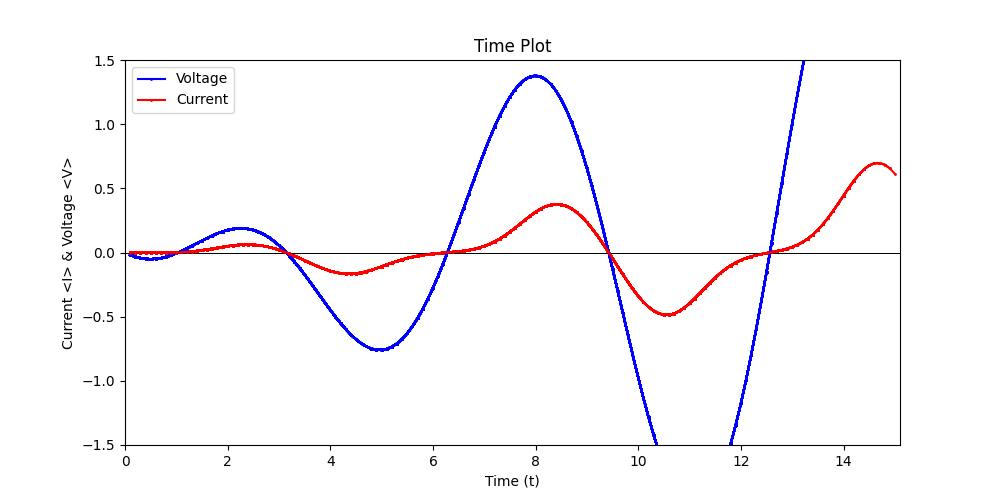
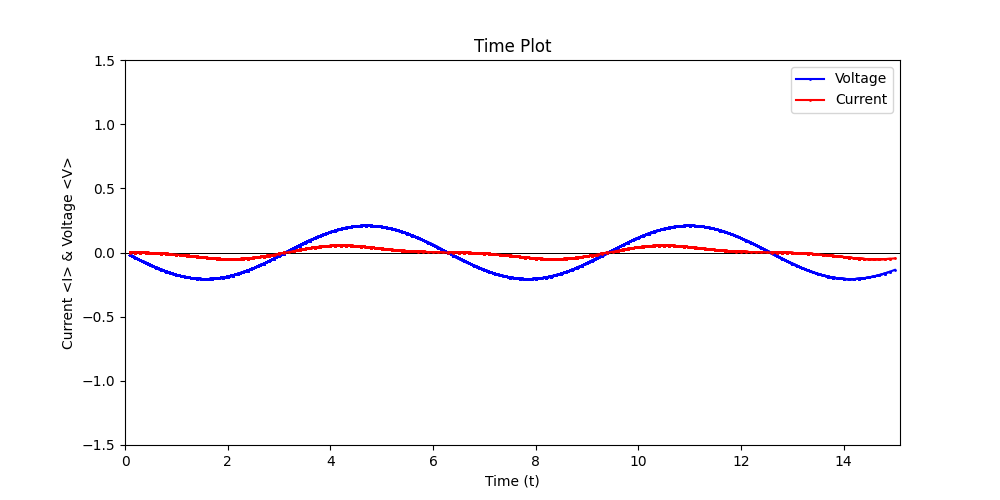
Final results of numerical simulation of generalized memristive dynamics (both for static and dynamic decay rate gamma)

diff --git a/q_memristor/numerical/mem_dynamics.py b/q_memristor/numerical/mem_dynamics.py
@@ -1,6 +1,7 @@
 from q_memristor.numerical.operators import *
 from q_memristor.plots import iv_plot, time_plot
 from num_memristor import memristor
+from q_memristor.circuits.csv_generator import csv_gen
 import numpy as np
 
 """
@@ -28,7 +29,7 @@ def f(v0, gamma_t, ts):
 if __name__ == '__main__':
     # Time-steps
     eps = 0.1
-    tmax = 15.1
+    tmax = 10.1
     t = np.arange(0, tmax, eps)
 
     # Simulation parameters
@@ -52,18 +53,35 @@ if __name__ == '__main__':
     I = []
 
     # Initialize V0 and I0 through the memristive equations derived from the master equation
-    V.append(-(1 / 2) * np.sqrt((m * h * w) / 2) * mem.exp_value(pauli_y, pure_state))
-    I.append(mem.gamma(t[0]) * V[0])
-    print('V: ', V[0], ' at time: ', 0.0)
-    print('I: ', I[0], ' at time: ', 0.0)
+    V0 = -(1 / 2) * np.sqrt((m * h * w) / 2) * mem.exp_value(pauli_y, pure_state)
+    I0 = mem.gamma(t[0]) * V0
+    print('V0: ', V0)
+    print('I0: ', I0)
 
-    iv_plt = iv_plot.IVplot(V[0], I[0])
-    t_plt = time_plot.Tplot()
+    v_val = 0
+
+    # Compute initial values of voltage and current based on V0 and I0
+    if dynamic:
+        v_val = f(V0, y0, t[0]) * np.sin(w * t[0])
+    else:
+        v_val = V0 * np.sin(w * t[0])
+
+    i_val = mem.gamma(t[0]) * v_val
+
+    V.append(v_val)
+    I.append(i_val)
+
+    iv_plt = iv_plot.IVplot(V[0], I[0], dynamic)
+    t_plt = time_plot.Tplot(dynamic)
+
+    print('V: ', V[0], ' at time: ', t[0])
+    print('I: ', I[0], ' at time: ', t[0])
 
     # V = sinusoidal time dependence
     # Hysterisis is constant because of V0 however V[0] should decrease in time
     # function of gamma and t to make V[0] decrease such that it is smaller than the previous V[0]
     for i in range(1, len(t)):
+        final_bool = False
         v_val = 0
 
         # angle = np.arccos(np.exp(mem.k1(t[i])))
@@ -72,17 +90,21 @@ if __name__ == '__main__':
         # v_val = f(V[0], mem.gamma(t[i]), t[i]) * np.sin(w * t[i])
 
         if dynamic:
-            v_val = f(V[0], y0, t[i]) * np.sin(w * t[i])
+            v_val = f(V0, y0, t[i]) * np.sin(w * t[i])
         else:
-            v_val = V[0] * np.sin(w*t[i])
+            v_val = V0 * np.sin(w*t[i])
 
         i_val = mem.gamma(t[i]) * v_val
 
         V.append(v_val)
         I.append(i_val)
 
-        iv_plt.update(V[i], I[i])
+        if t[i] == t[len(t)-1]:
+            final_bool = True
+
+        iv_plt.update(V[i], I[i], final_bool)
         t_plt.update(t[i], V[i], I[i])
+
         print('V: ', V[i], ' at time: ', t[i])
         print('I: ', I[i], ' at time: ', t[i])
         print()
@@ -90,8 +112,15 @@ if __name__ == '__main__':
     iv_plt.save_plot()
     t_plt.save_plot()
 
-    V = V/V[0]
-    I = I/I[0]
+    if dynamic:
+        csvGen = csv_gen('data/data_numMem_dyn.csv')
+        csvGen.write_data(t, V, I)
+    else:
+        csvGen = csv_gen('data/data_numMem1_stat.csv')
+        csvGen.write_data(t, V, I)
+
+    V = V/V0
+    I = I/I0
 
     print('Normalized Voltage: ')
     print(V)

diff --git a/q_memristor/plots/iv_plot.py b/q_memristor/plots/iv_plot.py
@@ -8,44 +8,62 @@ import matplotlib.pyplot as plt
 
 
 class IVplot:
-    def __init__(self, v0, i0):
+    def __init__(self, v0, i0, bool_dyn):
         self.fig, self.ax = plt.subplots(figsize=(6, 5))
-        # Dynamic:
-        self.ax.set_xlim(-1.5, 1.5)
-        self.ax.set_ylim(-1.5, 1.5)
-        # Static:
-        # self.ax.set_xlim(-0.3, 0.3)
-        # self.ax.set_ylim(-0.2, 0.2)
+        self.bool_dyn = bool_dyn
+
+        if bool_dyn:
+            self.ax.set_xlim(-1.5, 1.5)
+            self.ax.set_ylim(-1.5, 1.5)
+        else:
+            self.ax.set_xlim(-0.3, 0.3)
+            self.ax.set_ylim(-0.2, 0.2)
+
         self.ax.axhline(0, color='black', linewidth=0.5)
         self.ax.axvline(0, color='black', linewidth=0.5)
         self.v0 = v0
         self.i0 = i0
         self.xs = []
         self.ys = []
+
         self.ax.set_xlabel('Voltage <V>')
         self.ax.set_ylabel('Current <I>')
         self.ax.set_title('IV Plot')
 
-    def update(self, v, i):
+    def update(self, v, i, bool_end):
         # v = v / self.v0
         # i = -i / self.i0
         self.xs.append(v)
         self.ys.append(-i)
+
         # Uncomment to plot a single dot at each iteration
         # self.xs = self.xs[-1:]
         # self.ys = self.ys[-1:]
+
         # Uncomment the next line if we want to see only one dot at each update
         # self.ax.cla()
-        # Dynamic:
-        self.ax.set_xlim(-1.5, 1.5)
-        self.ax.set_ylim(-1.5, 1.5)
-        # Static:
-        # self.ax.set_xlim(-0.3, 0.3)
-        # self.ax.set_ylim(-0.2, 0.2)
+
+        if self.bool_dyn:
+            self.ax.set_xlim(-1.5, 1.5)
+            self.ax.set_ylim(-1.5, 1.5)
+        else:
+            self.ax.set_xlim(-0.3, 0.3)
+            self.ax.set_ylim(-0.2, 0.2)
+
         self.ax.axhline(0, color='black', linewidth=0.5)
         self.ax.axvline(0, color='black', linewidth=0.5)
         self.ax.plot(self.xs, self.ys, 'o', markersize=1)
+
+        # Plot initial point
+        self.ax.plot(self.v0, -self.i0, 'ro', markersize=2)
+
+        # Plot final point
+        if bool_end:
+            self.ax.plot(v, -i, 'bo', markersize=2)
         plt.pause(0.001)
 
     def save_plot(self):
-        self.fig.savefig('figures/iv_plot.png')
+        if self.bool_dyn:
+            self.fig.savefig('figures/iv_plot_dyn.png')
+        else:
+            self.fig.savefig('figures/iv_plot_stat.png')

diff --git a/q_memristor/plots/time_plot.py b/q_memristor/plots/time_plot.py
@@ -8,9 +8,10 @@ import matplotlib.pyplot as plt
 
 
 class Tplot:
-    def __init__(self):
+    def __init__(self, bool_dyn):
         self.fig, self.ax = plt.subplots(figsize=(10, 5))
         self.ax.axhline(0, color='black', linewidth=0.5)
+        self.bool_dyn = bool_dyn
         self.xs = []
         self.voltages = []
         self.currents = []
@@ -34,10 +35,11 @@ class Tplot:
         self.ax.plot(self.xs, self.currents, 'ro-', markersize=1, label='Current')
 
         self.ax.set_xlim(0, t+0.1)
-        # Static:
-        # self.ax.set_ylim(-0.3, 0.3)
-        # Dynamic:
-        self.ax.set_ylim(-1.5, 1.5)
+
+        if self.bool_dyn:
+            self.ax.set_ylim(-1.5, 1.5)
+        else:
+            self.ax.set_ylim(-0.3, 0.3)
 
         if not self.labels_displayed:
             self.ax.legend()
@@ -46,4 +48,7 @@ class Tplot:
         plt.pause(0.001)
 
     def save_plot(self):
-        self.fig.savefig('figures/time_plot.png')
+        if self.bool_dyn:
+            self.fig.savefig('figures/time_plot_dyn.png')
+        else:
+            self.fig.savefig('figures/time_plot_stat.png')

diff --git a/q_memristor/plots/test_plot.py b/q_memristor/plots/test_plot.py
@@ -44,12 +44,15 @@ if __name__ == '__main__':
 
     mem = memristor(y0, w, h, m, a, b)
 
-    t_plot = Tplot()
-    iv_plot = IVplot(V[0], I[0])
+    dyn_bool = True
+    end_bool = False
+
+    t_plot = Tplot(dyn_bool)
+    iv_plot = IVplot(V[0], I[0], dyn_bool)
 
     for i in range(len(t)-1):
         t_plot.update(t[i], V[i], I[i])
-        iv_plot.update(V[i], I[i])
+        iv_plot.update(V[i], I[i], end_bool)
 
         i_memVal = mem.gamma(t[i])*V[i]
         I_mem.append(i_memVal)

diff --git a/q_memristor/circuits/csv_generator.py b/q_memristor/circuits/csv_generator.py
@@ -9,4 +9,3 @@ class csv_gen:
         with open(self.filename, 'w', newline='') as file:
             writer = csv.writer(file)
             writer.writerows(data)
-        print(f"Data successfully written to {self.filename}.")
